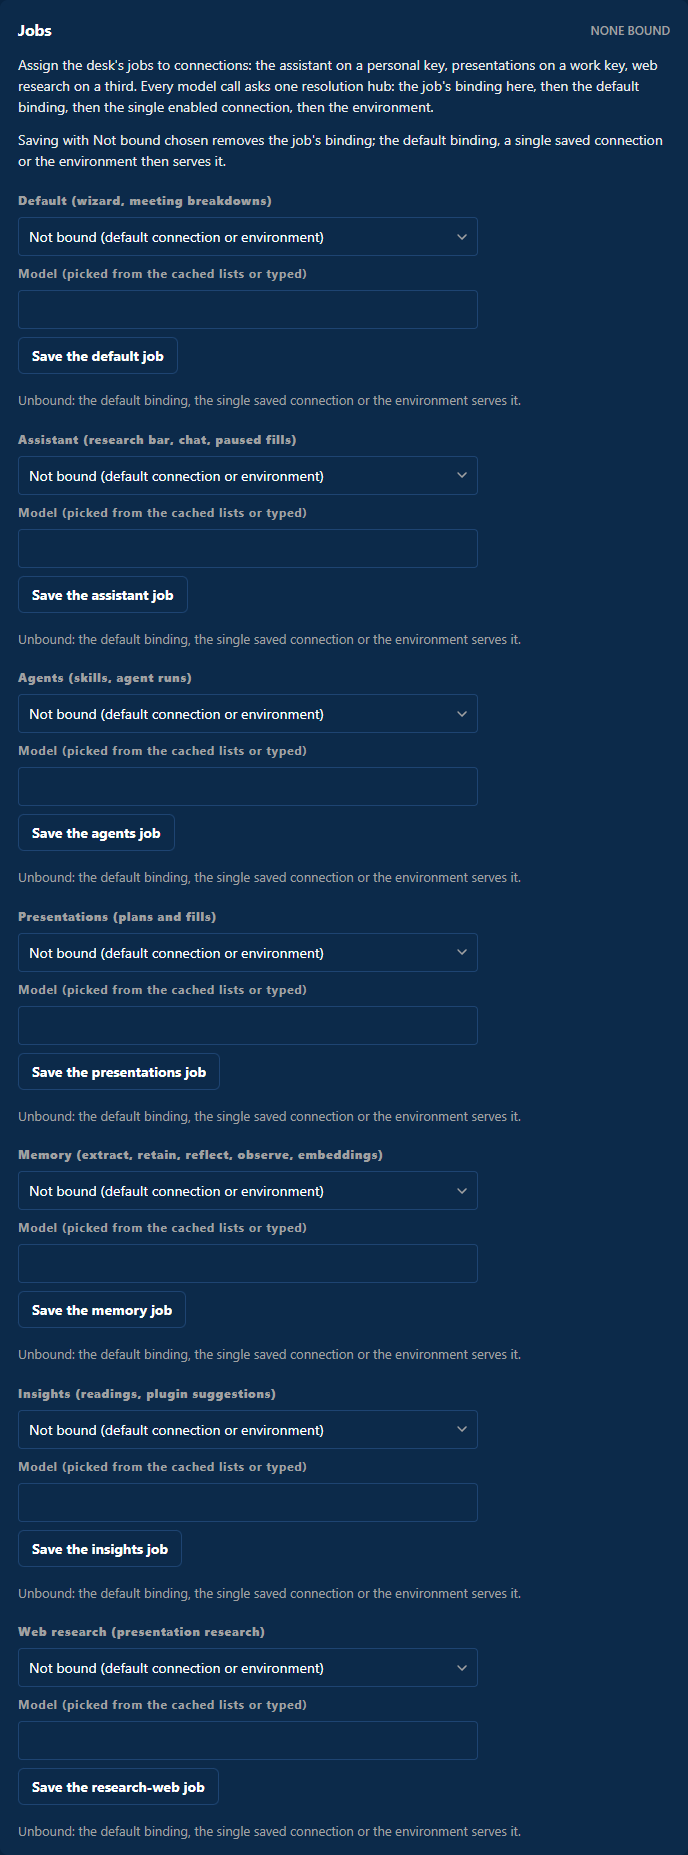
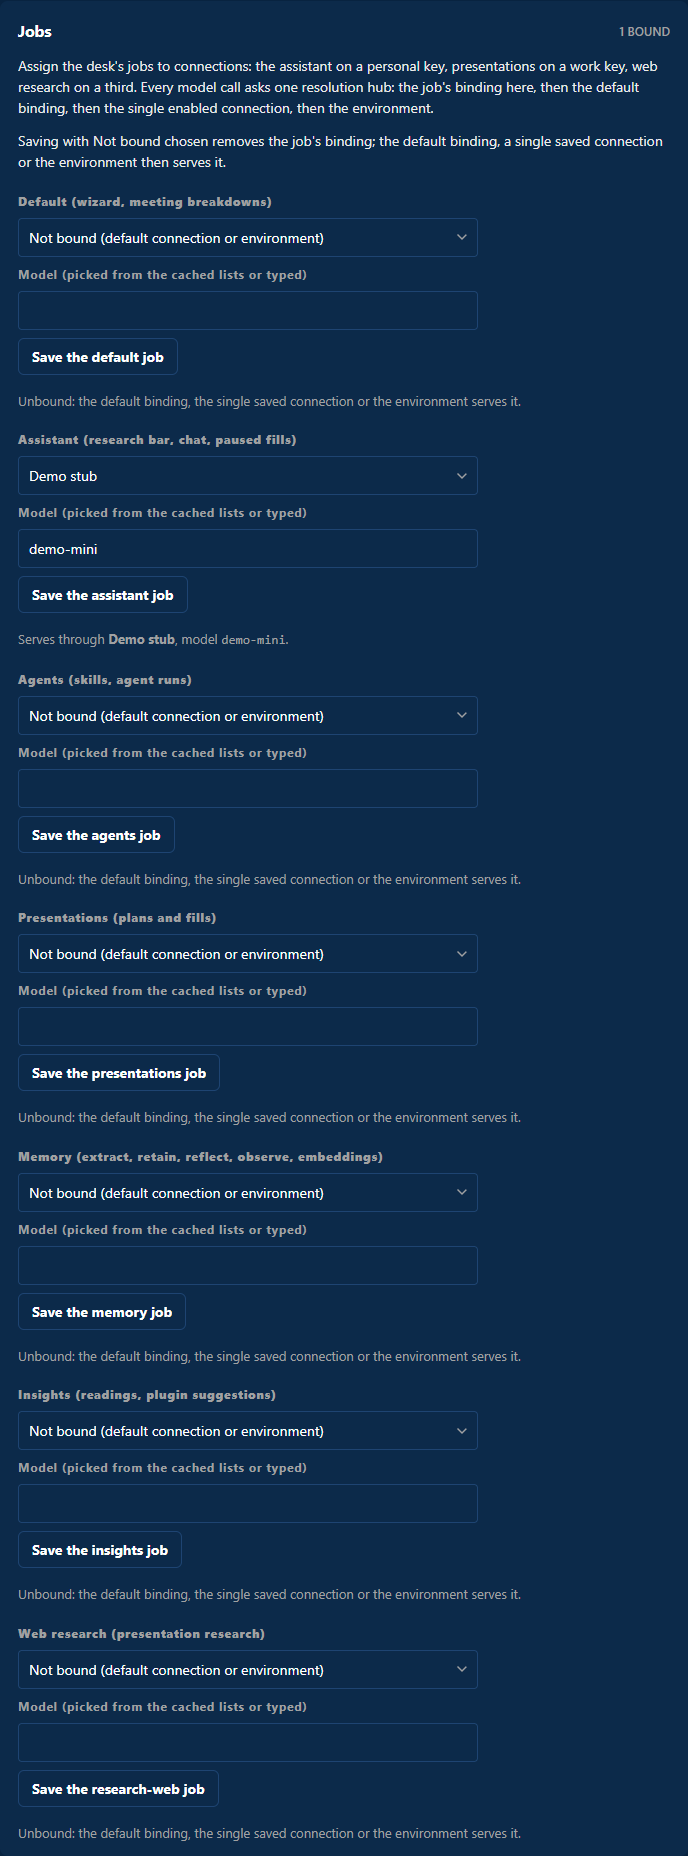
fix: the job picker preselects its bound connection (spec 018 #235)

diff --git a/src/agentdesk/server/settings_view.py b/src/agentdesk/server/settings_view.py
@@ -357,16 +357,45 @@ deleting your data, uninstalling a plugin, or installing a new plugin.</p>
 </section>"""
 
 
+def _job_choices(connections: list[dict], selected: str) -> str:
+    """One job's connection options, grouped by provider, with the job's
+    bound connection preselected: the dropdown then tells the same truth
+    the readback under the form tells, and an untouched save posts the
+    binding back instead of silently unbinding it (spec 018 #235). The
+    Not bound option is selected only when the job has no binding."""
+    groups: dict[str, list[dict]] = {}
+    for connection in connections:
+        preset = preset_for(connection.get("provider", ""))
+        name = preset.name if preset else str(connection.get("provider", ""))
+        groups.setdefault(name, []).append(connection)
+    options = [
+        "<option value=''"
+        + (" selected" if not selected else "")
+        + ">Not bound (default connection or environment)</option>"
+    ]
+    for provider, rows in groups.items():
+        items = "".join(
+            f"<option value='{html.escape(row['id'], quote=True)}'"
+            + (" selected" if row["id"] == selected else "")
+            + f">{html.escape(str(row.get('label', '')))}</option>"
+            for row in rows
+        )
+        options.append(
+            f"<optgroup label='{html.escape(provider)}'>{items}</optgroup>")
+    return "".join(options)
+
+
 def _jobs_section(bindings: list[dict] | None,
                   connections: list[dict] | None) -> str:
     """The per-job picker: which connection and model serves which job.
 
     One plain form per job (the house rule: the page works with no
-    script at all), the connection select grouped by provider, and the
-    model offered as a text input with a datalist of every cached model,
-    so choosing from the cached list and typing by hand are the same
-    control. The current binding reads back under each row, so the page
-    always states what serves what.
+    script at all), the connection select grouped by provider and
+    preselected to the job's own binding, and the model offered as a
+    text input with a datalist of every cached model, so choosing from
+    the cached list and typing by hand are the same control. The current
+    binding reads back under each row, so the page always states what
+    serves what, and the select shows the same state.
     """
     if bindings is None or connections is None:
         body = (
@@ -382,21 +411,6 @@ def _jobs_section(bindings: list[dict] | None,
             for model in connection.get("models") or []:
                 if model not in cached:
                     cached.append(model)
-        groups: dict[str, list[dict]] = {}
-        for connection in connections:
-            preset = preset_for(connection.get("provider", ""))
-            name = preset.name if preset else str(connection.get("provider", ""))
-            groups.setdefault(name, []).append(connection)
-        options = ["<option value=''>Not bound (default connection or environment)</option>"]
-        for provider, rows in groups.items():
-            items = "".join(
-                f"<option value='{html.escape(row['id'], quote=True)}'>"
-                f"{html.escape(str(row.get('label', '')))}</option>"
-                for row in rows
-            )
-            options.append(
-                f"<optgroup label='{html.escape(provider)}'>{items}</optgroup>")
-        choices = "".join(options)
         datalist = "".join(
             f"<option value='{html.escape(str(model), quote=True)}'></option>"
             for model in cached)
@@ -406,6 +420,7 @@ def _jobs_section(bindings: list[dict] | None,
             binding = by_job.get(job)
             selected = str(binding.get("connectionId") or "") if binding else ""
             model = str(binding.get("model") or "") if binding else ""
+            choices = _job_choices(connections, selected)
             if selected and selected in by_id:
                 current = (
                     f"<span class='empty'>Serves through"

diff --git a/tests/test_server_settings_api.py b/tests/test_server_settings_api.py
@@ -395,3 +395,48 @@ def test_first_run_shows_real_connect_actions_with_zero_permission_prompts(env, 
     # And nothing is fabricated on the empty first screen.
     assert "Sample data" not in page
     assert "14,320" not in page
+
+
+# -- the Jobs pickers preselect the job's bound connection (#235) --------------
+
+
+def _picker(page: str, job: str) -> str:
+    """One job's picker form, sliced out of the rendered settings page."""
+    start = page.index(f"name='job' value='{job}'")
+    return page[start:page.index("</form>", start)]
+
+
+def test_the_jobs_pickers_preselect_the_bound_connection_so_an_untouched_save_keeps_it(env, auth):
+    """The dropdown tells the same truth the readback tells (spec 018
+    #235): a bound job's connection option carries selected and the Not
+    bound option does not, so saving the form untouched posts the
+    binding back instead of silently unbinding it; with no binding, Not
+    bound is the selected option."""
+    status, _h, body = env.post_json("/api/connections", {
+        "label": "Desk ollama", "provider": "ollama",
+        "baseUrl": "http://localhost:11434/v1", "apiKey": "",
+    }, auth)
+    assert status == 201, body
+    connection = json.loads(body)
+    status, _h, _b = env.post_json("/api/bindings", {
+        "job": "assistant", "connectionId": connection["id"], "model": "",
+    }, auth)
+    assert status == 200
+
+    page = env.request("GET", "/settings", auth)[2].decode("utf-8")
+    picker = _picker(page, "assistant")
+    assert f"<option value='{connection['id']}' selected>Desk ollama</option>" in picker
+    assert "<option value=''>Not bound (default connection or environment)</option>" in picker
+    assert "<option value='' selected>" not in picker  # the job IS bound
+    assert "Serves through <b>Desk ollama</b>" in page  # the readback agrees
+
+    # Once the job is unbound, Not bound is what the picker shows selected.
+    status, _h, _b = env.post_json("/api/bindings", {
+        "job": "assistant", "connectionId": "", "model": "",
+    }, auth)
+    assert status == 200
+    page = env.request("GET", "/settings", auth)[2].decode("utf-8")
+    picker = _picker(page, "assistant")
+    assert ("<option value='' selected>"
+            "Not bound (default connection or environment)</option>") in picker
+    assert f"<option value='{connection['id']}' selected" not in picker

diff --git a/docs/evidence/byok-2026-11-21/README.md b/docs/evidence/byok-2026-11-21/README.md
@@ -36,12 +36,12 @@ flow without a screenshot here means that flow was not done.
 ## The captured gate
 
 - `ci-local.txt`: the complete output of `python tools/ci_local.py`
-  (launched detached because the run takes ~593 s). It ends:
+  (launched detached because the run takes ~577 s). It ends:
 
-      7/7 gates passed in 593s
+      7/7 gates passed in 577s
       CI PASS
 
-  pytest leg: `2741 passed, 2 skipped` over a fresh temp data dir.
+  pytest leg: `2743 passed, 1 skipped` over a fresh temp data dir.
   Note: the `py-grammar` leg reports `0 files parse under 3.10` because
   this worktree lives under a `.worktrees` parent the gate's walker
   deliberately skips; from a normal checkout path it scans the tree.
@@ -85,22 +85,47 @@ flow without a screenshot here means that flow was not done.
 | `05-test-badge-transient-dead-port.png` | (e) Test: transient | A dead port: the badge keeps its stored status (`unknown` on a fresh row, the spec's mapping for transport failures) and the inline cause names it: "the endpoint host refused the connection: nothing is listening at 127.0.0.1:61038". The frame also shows all three badge states side by side. |
 | `06-models-cached-row.png` | (f) model refresh, page | The deeper-check/model block's row after the check: the model block shows "2 models cached" from the loopback stub. |
 | `06-models-refresh-discovered-ids.png` | (f) model refresh, the ids | `GET /api/connections/<id>/models?refresh=1` (the refresh route re-fetches server-side) rendering the discovered ids `demo-mini`, `demo-large` with their fetched-at stamp in the browser. |
-| `07-job-binding-serves-through.png` | (g) per-job picker | The assistant job bound to Demo stub with model `demo-mini`; the readback line states "Serves through Demo stub, model demo-mini." |
+| `07-job-binding-serves-through.png` | (g) per-job picker | The assistant job bound to Demo stub with model `demo-mini`; the picker shows Demo stub as the selected option (retaken after the #235 fix) and the readback line agrees: "Serves through Demo stub, model demo-mini." |
 | `08-delete-bound-jobs-warning.png` | (h) delete with bound jobs | The no-JS confirmation page a bound connection's first delete answers with: it names the bound job ("Demo stub is bound to the assistant job"), what the delete removes, and the "Keep it" exit. |
 | `08-connections-after-delete.png` | (h) after confirm | The list without the deleted connection; the remaining rows (Stub rejects, Dead port) keep their badges. The binding went with the delete. |
 | `09-migrated-endpoint-connection.png` | (i) migration | Desk B after a real boot over legacy settings rows: the "Migrated endpoint" connection with the Custom preset, its masked hint (`sk-...0001`), the legacy base URL verbatim, and the default star. |
 | `09-migrated-default-job-bound.png` | (i) migration bound the job | The default job's readback: "Serves through Migrated endpoint, model demo-mini.", the legacy `llm_model` carried into the binding. |
 | `10-theme-unkey-connections.png` | (j) theme: Unkey | The Connections card under the default dark yellow-green theme, three saved connections rendering badges, masked hints and the preset grid. |
-| `10-theme-unkey-jobs.png` | (j) theme: Unkey | The Jobs card (all seven per-job pickers) under Unkey. |
+| `10-theme-unkey-jobs.png` | (j) theme: Unkey | The Jobs card under Unkey, retaken after the #235 fix: the assistant picker shows its bound connection, the six unbound pickers show Not bound. |
 | `10-theme-coforge-connections.png` | (j) theme: Coforge | The Connections card under the navy/coral theme. |
-| `10-theme-coforge-jobs.png` | (j) theme: Coforge | The Jobs card under Coforge. |
+| `10-theme-coforge-jobs.png` | (j) theme: Coforge | The Jobs card under Coforge, retaken after the #235 fix (the corrected picker, `1 BOUND`). |
 | `10-theme-momentuum-connections.png` | (j) theme: Momentuum blue | The Connections card under the light brand-blue theme. |
-| `10-theme-momentuum-jobs.png` | (j) theme: Momentuum blue | The Jobs card under Momentuum blue. |
+| `10-theme-momentuum-jobs.png` | (j) theme: Momentuum blue | The Jobs card under Momentuum blue, retaken after the #235 fix (the corrected picker, `1 BOUND`). |
 
 The shipped theme list was taken from the page code:
 `src/agentdesk/server/settings_view.py`, `_THEMES` (unkey, coforge,
 momentuum); all three render the new Connections and Jobs sections
 above.
+
+## The #235 refresh pass (the job picker retake, same day)
+
+The walkthrough's Jobs frames were captured before the #235 fix, where a
+bound job's select still displayed "Not bound" (no option carried the
+`selected` attribute) while the readback under the form said otherwise.
+After the fix (the picker preselects its bound connection), the four
+frames whose content changed were retaken so this pack shows the final
+state:
+
+- `07-job-binding-serves-through.png` and the three
+  `10-theme-*-jobs.png` frames were re-captured against a fresh
+  throwaway desk (`%TEMP%\\byok-refresh\\desk-a`, never the real
+  `%USERPROFILE%\\.agent-desk`), booted exactly like the original run:
+  `python -m agentdesk.server --port <free> --no-browser` with
+  `AGENTDESK_DATA` on the throwaway folder, the `AGENTDESK_*` overrides
+  emptied, and the branch's `src` on `PYTHONPATH` so the desk ran this
+  worktree's code. The same loopback stub (stdlib `http.server`) served
+  `GET /v1/models` 200 with `demo-mini` and `demo-large`; the Demo stub
+  connection was created through the real form with the clearly fake
+  key `sk-demo-byok-walkthrough-0001`, and the assistant job bound to
+  it through the real picker. Chromium 1440x900 via playwright-cli, the
+  same viewport as the original frames. No screenshot shows an input
+  holding a raw key value (the frames show the Jobs card only, where no
+  key field exists).
 
 ## Keychain cleanup (the walkthrough's traces are gone)
 
@@ -119,6 +144,17 @@ with `cmdkey /list` (3 found), deleted through the keyring API, and the
 enumeration re-run: **0 agent-desk entries remain**. The throwaway data
 folders and their sqlite stores were deleted with the temp run
 directory at the end.
+
+The #235 refresh pass created its own keychain traces and cleaned them
+the same way: the retake's two boots (one before noticing the desk was
+importing a stale installed copy, one on the worktree code) saved the
+demo key twice, and the keyring backend kept the first save under its
+compound target (`key/<id>@agent-desk`) when the second landed. Both
+targets were enumerated (`CredEnumerateW` via the same win32 API the
+keyring backend wraps, cross-checked with `cmdkey /list`: 2 found),
+deleted by exact target name, and the enumeration re-run: **0
+agent-desk entries remain** (confirmed by `CredEnumerateW`, `cmdkey
+/list` and `keyring.get_password` returning nothing).
 
 ## Artifacts not in this folder
 
